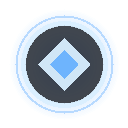
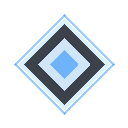
fix: 拾取物经验残响改为菱形图标

Changed region(s): [[0.0938, 0.0938, 0.9062, 0.9062]]

diff --git a/game.js b/game.js
@@ -4981,7 +4981,7 @@ class Pickup {
     }
 
     getArtPickupId() {
-        if (this.type === PICKUP_TYPES.EXP) return 'EXP';
+        if (this.type === PICKUP_TYPES.EXP) return this.expValue > 10 ? 'EXP_LARGE' : 'EXP';
         if (this.type === PICKUP_TYPES.BOSS_EXP) return 'BOSS_EXP';
         if (this.type === PICKUP_TYPES.RESONANCE) return 'RESONANCE';
         if (this.type === PICKUP_TYPES.BUN) return 'BUN';
@@ -5014,11 +5014,21 @@ class Pickup {
             const icon = pickupId ? assets.getPickupIcon(pickupId) : null;
             if (assets.canDraw(icon)) {
                 const iconSize = Math.max(displaySize, this.type === PICKUP_TYPES.MAGNET ? 24 : displaySize);
+                const useDiamondFrame = pickupId === 'EXP' || pickupId === 'EXP_LARGE' || pickupId === 'BOSS_EXP' || pickupId === 'RESONANCE';
                 ctx.save();
                 ctx.globalAlpha = 0.35;
                 ctx.fillStyle = displayColor;
                 ctx.beginPath();
-                ctx.arc(this.x, this.y, iconSize * 0.62, 0, Math.PI * 2);
+                if (useDiamondFrame) {
+                    const glowHalf = iconSize * 0.68;
+                    ctx.moveTo(this.x, this.y - glowHalf);
+                    ctx.lineTo(this.x + glowHalf, this.y);
+                    ctx.lineTo(this.x, this.y + glowHalf);
+                    ctx.lineTo(this.x - glowHalf, this.y);
+                    ctx.closePath();
+                } else {
+                    ctx.arc(this.x, this.y, iconSize * 0.62, 0, Math.PI * 2);
+                }
                 ctx.fill();
                 ctx.globalAlpha = 1;
                 ctx.drawImage(icon, this.x - iconSize / 2, this.y - iconSize / 2, iconSize, iconSize);
